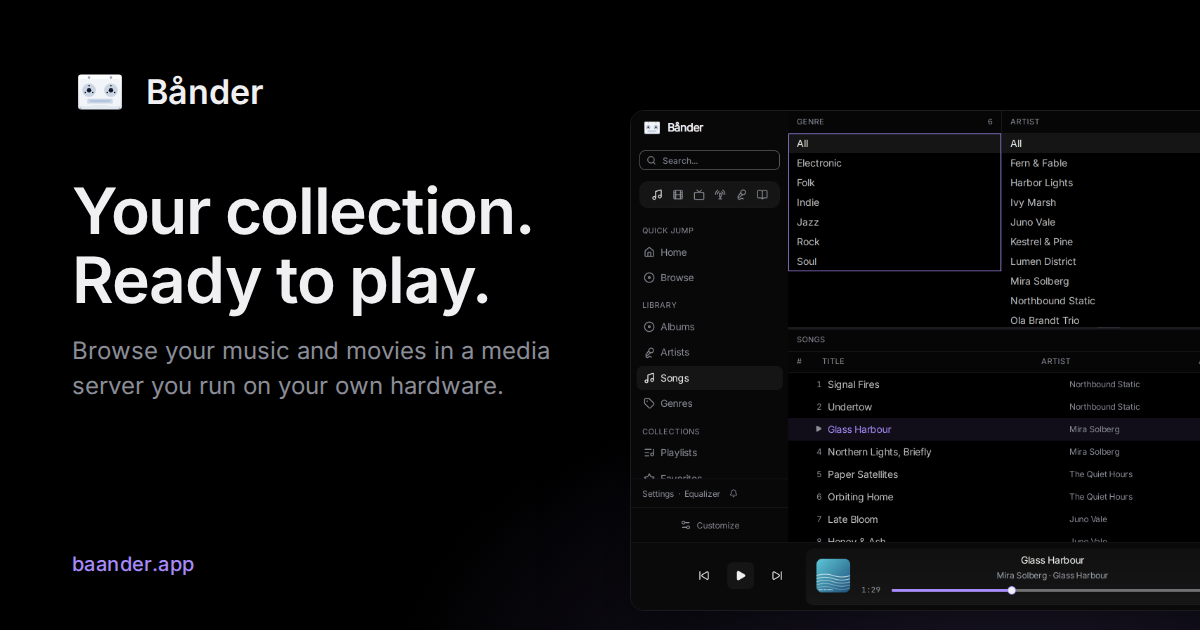
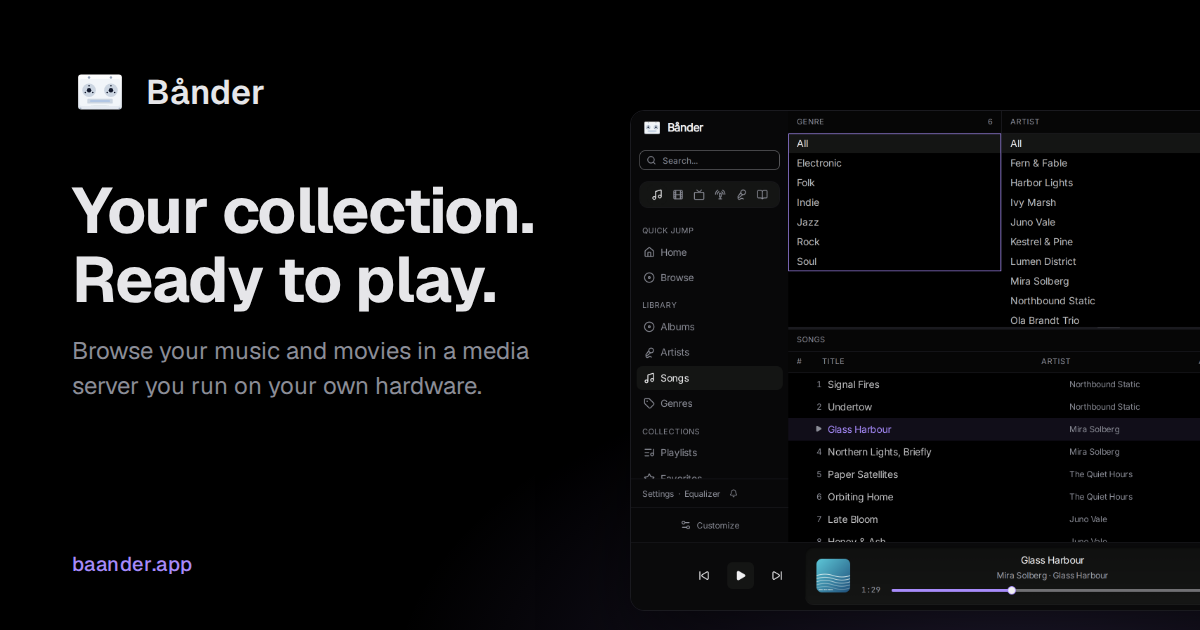
feat(website): set the public site in Geist and Geist Mono
The site self-hosts the Latin variable faces of Geist and Geist Mono under
content-hashed names with their OFL licenses, and the Vercel output caches
the font directory for a year as immutable. Inter and JetBrains Mono are
gone, including from the rendered diagrams and the social card, and the
site reads the shared --font-ui stack. Headings, overlines and the primary
button take the new role weights.

diff --git a/ui/site/assets/site.css b/ui/site/assets/site.css
@@ -1,38 +1,10 @@
-@font-face {
-  font-family: 'JetBrains Mono';
-  font-style: normal;
-  font-weight: 400;
-  font-display: swap;
-  src: url('/assets/site/fonts/jetbrains-mono-latin-400-normal.woff2') format('woff2');
-}
-@font-face {
-  font-family: Inter;
-  font-style: normal;
-  font-weight: 400;
-  font-display: swap;
-  src: url('/assets/site/fonts/inter-latin-400-normal.woff2') format('woff2');
-}
-@font-face {
-  font-family: Inter;
-  font-style: normal;
-  font-weight: 500;
-  font-display: swap;
-  src: url('/assets/site/fonts/inter-latin-500-normal.woff2') format('woff2');
-}
-@font-face {
-  font-family: Inter;
-  font-style: normal;
-  font-weight: 600;
-  font-display: swap;
-  src: url('/assets/site/fonts/inter-latin-600-normal.woff2') format('woff2');
-}
 * { box-sizing: border-box; }
 html { scroll-padding-top: 32px; }
 body {
   margin: 0;
   background: var(--color-background);
   color: var(--color-foreground);
-  font: 400 16px/1.65 var(--font-sans);
+  font: 400 16px/1.65 var(--font-ui);
   -webkit-font-smoothing: antialiased;
 }
 a { color: var(--color-accent-text); text-underline-offset: .2em; }
@@ -40,6 +12,7 @@ a:hover { text-decoration-thickness: 2px; }
 :focus-visible { outline: 2px solid var(--color-ring); outline-offset: 4px; }
 img { display: block; max-width: 100%; height: auto; }
 h1, h2, h3, h4, h5, h6 { font-weight: 600; line-height: 1.2; letter-spacing: -.01em; overflow-wrap: anywhere; }
+h1 { font-weight: 700; }
 p, figure { margin: 0; }
 h1, h2, h3 { margin: 0; }
 ::selection { color: var(--color-highlight-foreground); background: var(--color-highlight); }
@@ -52,14 +25,14 @@ h1, h2, h3 { margin: 0; }
 .site-header nav { display: flex; flex-wrap: wrap; align-items: center; gap: 24px; }
 .site-header nav a { color: var(--color-muted-foreground); font-size: 14px; text-decoration: none; }
 .site-header nav a:hover, .site-header nav a[aria-current] { color: var(--color-foreground); text-decoration: underline; }
-.eyebrow { color: var(--color-muted-foreground); font-size: 11px; line-height: 1.5; font-weight: 500; letter-spacing: .12em; text-transform: uppercase; }
+.eyebrow { color: var(--color-muted-foreground); font-size: 11px; line-height: 1.5; font-weight: 600; letter-spacing: .12em; text-transform: uppercase; }
 .homepage { max-width: 1200px; margin: auto; padding: 0 32px; }
 .hero { padding-top: 64px; }
 .hero-copy { text-align: center; }
 .hero h1 { font-size: clamp(42px, 6.2vw, 76px); line-height: 1.08; margin: 24px auto; }
 .hero-description { color: var(--color-muted-foreground); font-size: clamp(16px, 2vw, 20px); line-height: 1.6; }
 .actions { display: flex; align-items: center; justify-content: center; gap: 24px; flex-wrap: wrap; margin-top: 32px; }
-.button { display: inline-flex; align-items: center; justify-content: center; gap: 16px; min-height: 48px; padding: 8px 24px; border-radius: var(--radius-md); background: var(--color-primary); color: var(--color-primary-foreground); font-size: 14px; font-weight: 500; text-decoration: none; }
+.button { display: inline-flex; align-items: center; justify-content: center; gap: 16px; min-height: 48px; padding: 8px 24px; border-radius: var(--radius-md); background: var(--color-primary); color: var(--color-primary-foreground); font-size: 14px; font-weight: 600; text-decoration: none; }
 .button:hover { background: var(--color-primary-hover); color: var(--color-primary-foreground); text-decoration: none; }
 .button:active { background: var(--color-primary-pressed); }
 .text-action { display: inline-flex; align-items: center; gap: 16px; font-size: 14px; font-weight: 500; text-decoration: none; }
@@ -166,7 +139,7 @@ h1, h2, h3 { margin: 0; }
 .chapter-fold ul { margin: 4px 0 8px 16px; border-left: 1px solid var(--color-border); }
 .chapter-fold li a { padding-block: 6px; font-size: 12.5px; overflow-wrap: break-word; }
 .chapter-fold .chapter-fold-group ul { margin: 0; border-left: 0; }
-.chapter-fold-label { display: block; padding: 12px 16px 4px; color: var(--color-muted-foreground); font-size: 10.5px; font-weight: 500; letter-spacing: .08em; text-transform: uppercase; }
+.chapter-fold-label { display: block; padding: 12px 16px 4px; color: var(--color-muted-foreground); font-size: 10.5px; font-weight: 600; letter-spacing: .08em; text-transform: uppercase; }
 @media (prefers-reduced-motion: reduce) { .chapter-fold summary::after { transition: none; } }
 .manual-main { min-width: 0; }
 .manual-breadcrumb { display: flex; align-items: baseline; gap: 16px; flex-wrap: wrap; font-size: 12px; color: var(--color-muted-foreground); margin-bottom: 32px; }
@@ -205,7 +178,7 @@ h1, h2, h3 { margin: 0; }
   border-radius: calc(var(--radius-md) - 1px) 0 var(--radius-sm) 0;
   background: var(--color-background);
   color: var(--color-muted-foreground);
-  font: 500 11px/1.5 var(--font-sans);
+  font: 500 11px/1.5 var(--font-ui);
   letter-spacing: .04em;
 }
 .manual-article table { display: block; overflow: auto; max-width: 100%; border-collapse: collapse; font-size: 14px; }

diff --git a/ui/site/tests/website.spec.ts b/ui/site/tests/website.spec.ts
@@ -32,6 +32,32 @@ for (const viewport of [{ width: 1440, height: 1000 }, { width: 390, height: 844
   }
 }
 
+test('pages set their text in the self-hosted Geist faces', async ({ page }) => {
+  const fonts: string[] = [];
+  page.on('response', (response) => {
+    if (response.request().resourceType() === 'font') fonts.push(new URL(response.url()).pathname);
+  });
+  const typography = async (selector: string) => {
+    await page.evaluate(() => document.fonts.ready);
+    return page.evaluate((selector) => ({
+      family: getComputedStyle(document.querySelector(selector)!).fontFamily,
+      loaded: [...document.fonts].filter((face) => face.status === 'loaded').map((face) => face.family.replaceAll('"', '')),
+    }), selector);
+  };
+  await page.goto('/');
+  const home = await typography('body');
+  expect(home.family).toMatch(/^"Geist Variable",/);
+  expect(home.loaded).toContain('Geist Variable');
+  await page.goto('/docs/developer-guide/testing/');
+  const code = await typography('.manual-article code');
+  expect(code.family).toMatch(/^"Geist Mono Variable",/);
+  expect(code.loaded).toContain('Geist Mono Variable');
+  expect(fonts.length).toBeGreaterThan(0);
+  for (const font of fonts) {
+    expect(font, 'Only the hashed Latin Geist faces are requested').toMatch(/^\/assets\/site\/fonts\/geist(?:-mono)?-latin-wght-normal-[0-9a-f]{16}\.woff2$/);
+  }
+});
+
 test('visitor reaches operating model and source-based installation', async ({ page }) => {
   await page.goto('/');
   const screenshot = page.getByRole('img', { name: /music library/ });

diff --git a/ui/site/assets/baac.css b/ui/site/assets/baac.css
@@ -54,7 +54,7 @@
 .baac-chart-panel h3 { font-size: 18px; margin-bottom: 16px; }
 .baac-plot-scroll, .baac-table-scroll { max-width: 100%; overflow-x: auto; overscroll-behavior-x: contain; }
 .baac-plot-scroll { margin-bottom: 16px; }
-.baac-chart { display: block; width: 100%; min-width: 720px; max-width: 900px; margin-inline: auto; height: auto; color: var(--color-foreground); font-family: var(--font-sans); }
+.baac-chart { display: block; width: 100%; min-width: 720px; max-width: 900px; margin-inline: auto; height: auto; color: var(--color-foreground); font-family: var(--font-ui); }
 .baac-chart text { font-size: 13px; }
 .baac-grid { stroke: var(--color-border); }
 .baac-axis { stroke: var(--color-muted-foreground); }

diff --git a/scripts/tests/php/Website/PublicationTest.php b/scripts/tests/php/Website/PublicationTest.php
@@ -44,7 +44,19 @@ final class PublicationTest extends TestCase
         self::assertDirectoryDoesNotExist($output . '/static/.vercel');
     }
 
-    public function testSharedAssetsIncludeFontsLicensesAndSystemLightFallback(): void
+    public function testFontFilesAreCachedForAYearBecauseTheirNamesChangeWithTheirContent(): void
+    {
+        Publication::package($this->directory);
+        $config = json_decode(file_get_contents($this->directory . '/.vercel/output/config.json'), true, flags: JSON_THROW_ON_ERROR);
+        $routes = $config['routes'];
+        $fonts = array_find_key($routes, static fn(array $route): bool => str_starts_with($route['src'] ?? '', '/assets/site/fonts/'));
+        self::assertNotNull($fonts, 'The fonts directory has its own headers route');
+        self::assertSame(['Cache-Control' => 'public, max-age=31536000, immutable'], $routes[$fonts]['headers']);
+        self::assertTrue($routes[$fonts]['continue'], 'The headers route still lets the file be served');
+        self::assertLessThan(array_search(['handle' => 'filesystem'], $routes, true), $fonts);
+    }
+
+    public function testSharedAssetsSelfHostLatinGeistUnderContentHashedNamesWithLicenses(): void
     {
         $root = $this->directory . '/source';
         mkdir($root . '/ui/web/public', 0700, true);
@@ -53,22 +65,45 @@ final class PublicationTest extends TestCase
         file_put_contents($root . '/ui/design-tokens/build/web/theme.css', ':root[data-theme="balanced"]:not([data-accent]) { color-scheme: light; --color-background: #f5f5f5; }');
         mkdir($root . '/ui/site', 0700, true);
         file_put_contents($root . '/ui/site/theme-tone.css', ':root[data-theme="dark"] { --color-foreground: #e6e6e9; }');
-        foreach (['inter' => [400, 500, 600], 'jetbrains-mono' => [400]] as $font => $weights) {
-            $package = $root . '/ui/site/node_modules/@fontsource/' . $font;
+        foreach (['geist', 'geist-mono'] as $font) {
+            $package = $root . '/ui/site/node_modules/@fontsource-variable/' . $font;
             mkdir($package . '/files', 0700, true);
-            file_put_contents($package . '/LICENSE', 'SIL OPEN FONT LICENSE');
-            foreach ($weights as $weight) {
-                file_put_contents($package . '/files/' . $font . '-latin-' . $weight . '-normal.woff2', 'font fixture');
-            }
+            file_put_contents($package . '/LICENSE', 'SIL OPEN FONT LICENSE for ' . $font);
+            file_put_contents($package . '/files/' . $font . '-latin-wght-normal.woff2', $font . ' latin fixture');
+            file_put_contents($package . '/files/' . $font . '-cyrillic-wght-normal.woff2', $font . ' cyrillic fixture');
         }
         Publication::assets($root, $this->directory);
+        $fonts = $this->directory . '/assets/site/fonts';
         self::assertFileExists($this->directory . '/assets/site/logo.svg');
-        self::assertFileExists($this->directory . '/assets/site/fonts/inter-latin-600-normal.woff2');
-        self::assertFileExists($this->directory . '/assets/site/fonts/jetbrains-mono-latin-400-normal.woff2');
-        self::assertStringContainsString('SIL OPEN FONT LICENSE', file_get_contents($this->directory . '/assets/site/fonts/inter-LICENSE.txt'));
+        $files = array_map(basename(...), glob($fonts . '/*') ?: []);
+        sort($files);
+        $hash = static fn(string $content): string => substr(hash('sha256', $content), 0, 16);
+        self::assertSame([
+            'geist-LICENSE-' . $hash('SIL OPEN FONT LICENSE for geist') . '.txt',
+            'geist-latin-wght-normal-' . $hash('geist latin fixture') . '.woff2',
+            'geist-mono-LICENSE-' . $hash('SIL OPEN FONT LICENSE for geist-mono') . '.txt',
+            'geist-mono-latin-wght-normal-' . $hash('geist-mono latin fixture') . '.woff2',
+        ], $files, 'Only the Latin faces and their licenses ship, and no Inter or JetBrains Mono file');
         $css = file_get_contents($this->directory . '/assets/site/theme.css');
+        foreach (['Geist Variable' => 'geist', 'Geist Mono Variable' => 'geist-mono'] as $family => $font) {
+            $face = '/assets/site/fonts/' . $font . '-latin-wght-normal-' . $hash($font . ' latin fixture') . '.woff2';
+            self::assertMatchesRegularExpression(
+                '~@font-face \{[^}]*font-family: "' . $family . '";[^}]*font-weight: 100 900;[^}]*font-display: swap;[^}]*src: url\(\'' . preg_quote($face, '~') . '\'\) format\(\'woff2\'\);[^}]*\}~',
+                $css,
+            );
+        }
         self::assertStringContainsString('@media (prefers-color-scheme: light)', $css);
         self::assertStringContainsString(':root:not([data-theme])', $css);
         self::assertStringEndsWith(':root[data-theme="dark"] { --color-foreground: #e6e6e9; }', $css, 'The site tone follows the shared tokens');
+    }
+
+    public function testSiteStylesAndScriptsReadTheSharedFontStacks(): void
+    {
+        $site = dirname(__DIR__, 4) . '/ui/site';
+        $sources = [...glob($site . '/assets/*.css') ?: [], ...glob($site . '/scripts/*.mjs') ?: [], ...glob($site . '/templates/*.php') ?: []];
+        self::assertNotEmpty($sources);
+        foreach ($sources as $source) {
+            self::assertSame(0, preg_match('/--font-(?:sans|heading)\b/', file_get_contents($source)), $source . ' reads a removed font stack');
+        }
     }
 }

diff --git a/packages/baander-tooling/src/Website/Publication.php b/packages/baander-tooling/src/Website/Publication.php
@@ -11,19 +11,17 @@ use RuntimeException;
 
 final class Publication
 {
+    /** The Latin variable faces the site self-hosts, by the family names the shared font stacks use. */
+    private const array FONTS = ['Geist Variable' => 'geist', 'Geist Mono Variable' => 'geist-mono'];
+
+    /** Font file names carry their content hash, so the fonts directory is cached as immutable. */
+    private const string FONT_DIRECTORY = '/assets/site/fonts/';
+
     public static function assets(string $root, string $staging): void
     {
         $destination = $staging . '/assets/site';
         self::copy($root . '/ui/web/public/logo.svg', $destination . '/logo.svg');
-        file_put_contents($destination . '/theme.css', self::theme($root));
-        foreach (['inter' => [400, 500, 600], 'jetbrains-mono' => [400]] as $font => $weights) {
-            $package = $root . '/ui/site/node_modules/@fontsource/' . $font;
-            foreach ($weights as $weight) {
-                $filename = $font . '-latin-' . $weight . '-normal.woff2';
-                self::copy($package . '/files/' . $filename, $destination . '/fonts/' . $filename);
-            }
-            self::copy($package . '/LICENSE', $destination . '/fonts/' . $font . '-LICENSE.txt');
-        }
+        file_put_contents($destination . '/theme.css', self::fonts($root, $staging) . self::theme($root));
     }
 
     /**
@@ -57,6 +55,7 @@ final class Publication
         }
         ksort($files);
         $routes = [
+            ['src' => preg_quote(self::FONT_DIRECTORY, '~') . '.+', 'headers' => ['Cache-Control' => 'public, max-age=31536000, immutable'], 'continue' => true],
             ['src' => '/index\\.html', 'headers' => ['Location' => '/'], 'status' => 308],
             ['src' => '/(.+)/index\\.html', 'headers' => ['Location' => '/$1/'], 'status' => 308],
             ['src' => '/', 'dest' => '/index.html'],
@@ -74,10 +73,41 @@ final class Publication
         file_put_contents($output . '/config.json', json_encode(['version' => 3, 'routes' => $routes], JSON_THROW_ON_ERROR | JSON_PRETTY_PRINT | JSON_UNESCAPED_SLASHES) . "\n");
     }
 
+    /** Copies each Latin face and its license under content-hashed names and returns the faces' rules. */
+    private static function fonts(string $root, string $staging): string
+    {
+        $rules = '';
+        foreach (self::FONTS as $family => $font) {
+            $package = $root . '/ui/site/node_modules/@fontsource-variable/' . $font;
+            $face = self::copyHashed($package . '/files/' . $font . '-latin-wght-normal.woff2', $staging, $font . '-latin-wght-normal', 'woff2');
+            self::copyHashed($package . '/LICENSE', $staging, $font . '-LICENSE', 'txt');
+            $rules .= "@font-face {\n  font-family: \"{$family}\";\n  font-style: normal;\n  font-weight: 100 900;\n"
+                . "  font-display: swap;\n  src: url('{$face}') format('woff2');\n}\n";
+        }
+        return $rules;
+    }
+
+    /** @return string the published path of the copy */
+    private static function copyHashed(string $source, string $staging, string $name, string $extension): string
+    {
+        $digest = is_file($source) ? hash_file('sha256', $source) : false;
+        if ($digest === false) {
+            throw self::missing($source);
+        }
+        $path = self::FONT_DIRECTORY . $name . '-' . substr($digest, 0, 16) . '.' . $extension;
+        self::copy($source, $staging . $path);
+        return $path;
+    }
+
+    private static function missing(string $source): RuntimeException
+    {
+        return new RuntimeException('Missing website asset: ' . $source . '. Install the site dependencies first.');
+    }
+
     private static function copy(string $source, string $destination): void
     {
         if (!is_file($source)) {
-            throw new RuntimeException('Missing website asset: ' . $source . '. Install the site dependencies first.');
+            throw self::missing($source);
         }
         $directory = dirname($destination);
         if (!is_dir($directory) && !mkdir($directory, 0755, true)) {

diff --git a/scripts/tests/php/Website/BlockRenderingTest.php b/scripts/tests/php/Website/BlockRenderingTest.php
@@ -57,9 +57,9 @@ final class BlockRenderingTest extends TestCase
 
     public function testCreatesSanitizedThemeAssetsAndAccessibleSourceDisclosure(): void
     {
-        $directory = $this->root . '/ui/site/node_modules/@fontsource/inter/files';
+        $directory = $this->root . '/ui/site/node_modules/@fontsource-variable/geist/files';
         mkdir($directory, 0700, true);
-        file_put_contents($directory . '/inter-latin-400-normal.woff2', 'trusted-font');
+        file_put_contents($directory . '/geist-latin-wght-normal.woff2', 'trusted-font');
         $svg = '<svg xmlns="http://www.w3.org/2000/svg" viewBox="0 0 100 60"><text>A &amp; B</text><script>unsafe</script></svg>';
         $this->helper(['sample' => ['kind' => 'diagram', 'light' => $svg, 'dark' => $svg, 'width' => 100, 'height' => 60]]);
         $source = "flowchart LR\naccTitle: Music & playback\naccDescr: A to B\nA --> B\n";
@@ -74,6 +74,7 @@ final class BlockRenderingTest extends TestCase
         foreach (['light', 'dark'] as $appearance) {
             $asset = file_get_contents($this->root . '/stage/assets/diagrams/sample-' . $appearance . '.svg');
             self::assertStringNotContainsString('<script', $asset);
+            self::assertStringContainsString('font-family:"Geist Variable"', $asset);
             self::assertStringContainsString('base64,' . base64_encode('trusted-font'), $asset);
             self::assertStringContainsString('class="diagram-' . $appearance . '"', $html);
         }

diff --git a/scripts/tests/php/Website/SvgDiagramTest.php b/scripts/tests/php/Website/SvgDiagramTest.php
@@ -9,11 +9,11 @@ use PHPUnit\Framework\TestCase;
 
 final class SvgDiagramTest extends TestCase
 {
-    public function testPreservesDiagramGeometryLabelsMarkersAndEmbedsOnlyTrustedFont(): void
+    public function testPreservesDiagramGeometryLabelsMarkersAndEmbedsOnlyTrustedGeistFont(): void
     {
         $source = <<<'SVG'
 <svg xmlns="http://www.w3.org/2000/svg" viewBox="0 0 400 200" width="400" height="200">
-<style>.edge{stroke:#555;marker-end:url(#arrow)}text{font-family:Inter;font-size:16px}</style>
+<style>.edge{stroke:#555;marker-end:url(#arrow)}text{font-family:"Geist Variable";font-size:16px}</style>
 <defs><marker id="arrow" viewBox="0 0 10 10"><path d="M0 0L10 5L0 10z"/></marker></defs>
 <path class="edge" d="M0 0L100 100" marker-end="url(#arrow)"/>
 <text x="10" y="20">Bånder &amp; “music” → ready</text>
@@ -30,6 +30,8 @@ SVG;
         self::assertStringContainsString('id="arrow"', $svg);
         self::assertStringContainsString('data:font/woff2;base64,' . base64_encode('trusted-font-bytes'), $svg);
         self::assertSame(1, substr_count($svg, '@font-face'));
+        self::assertStringContainsString('@font-face{font-family:"Geist Variable";font-style:normal;font-weight:100 900;src:url(data:font/woff2;base64,', $svg);
+        self::assertStringContainsString('text{font-family:"Geist Variable"', $svg, 'Labels name the embedded face');
     }
 
     public function testDoesNotIndentWrappedLabelLinesSoCenteredTextStaysCentered(): void

diff --git a/packages/baander-tooling/src/Website/BlockRendering.php b/packages/baander-tooling/src/Website/BlockRendering.php
@@ -25,7 +25,7 @@ final readonly class BlockRendering
         if (!mkdir($scratch, 0700, true)) {
             throw new \RuntimeException('Cannot create website rendering scratch directory.');
         }
-        $fontPath = $this->root . '/ui/site/node_modules/@fontsource/inter/files/inter-latin-400-normal.woff2';
+        $fontPath = $this->root . '/ui/site/node_modules/@fontsource-variable/geist/files/geist-latin-wght-normal.woff2';
         try {
             file_put_contents($scratch . '/theme.css', $this->themeCss);
             file_put_contents($scratch . '/request.json', json_encode([
@@ -110,7 +110,7 @@ final readonly class BlockRendering
         }
         $font = is_file($fontPath) ? file_get_contents($fontPath) : false;
         if ($font === false) {
-            throw new \RuntimeException('Cannot read local Inter font.');
+            throw new \RuntimeException('Cannot read local Geist font.');
         }
         $directory = $staging . '/assets/diagrams';
         if (!is_dir($directory) && !mkdir($directory, 0755, true)) {

diff --git a/packages/baander-tooling/src/Website/SvgDiagram.php b/packages/baander-tooling/src/Website/SvgDiagram.php
@@ -29,7 +29,7 @@ final class SvgDiagram
             throw new \RuntimeException('Diagram font payload is empty.');
         }
         $style = $document->createElementNS('http://www.w3.org/2000/svg', 'style');
-        $style->textContent = '@font-face{font-family:Inter;font-style:normal;font-weight:400;src:url(data:font/woff2;base64,' . base64_encode($fontBytes) . ') format("woff2")}';
+        $style->textContent = '@font-face{font-family:"Geist Variable";font-style:normal;font-weight:100 900;src:url(data:font/woff2;base64,' . base64_encode($fontBytes) . ') format("woff2")}';
         $document->documentElement->appendChild($style);
         return $document->saveXML($document->documentElement) ?: throw new \RuntimeException('Diagram SVG serialization failed.');
     }
